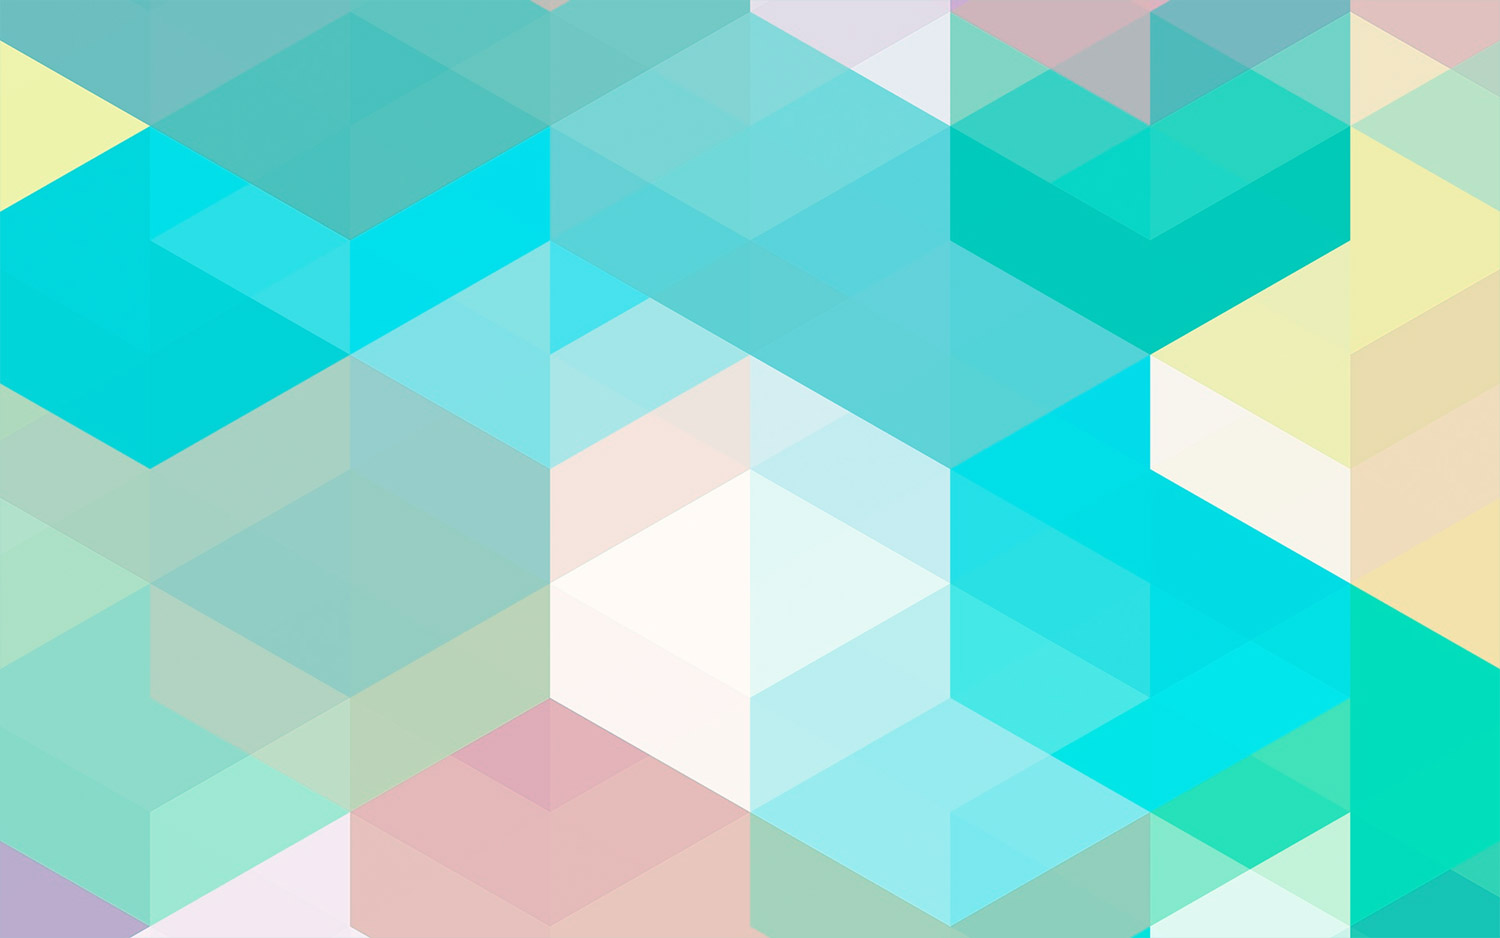
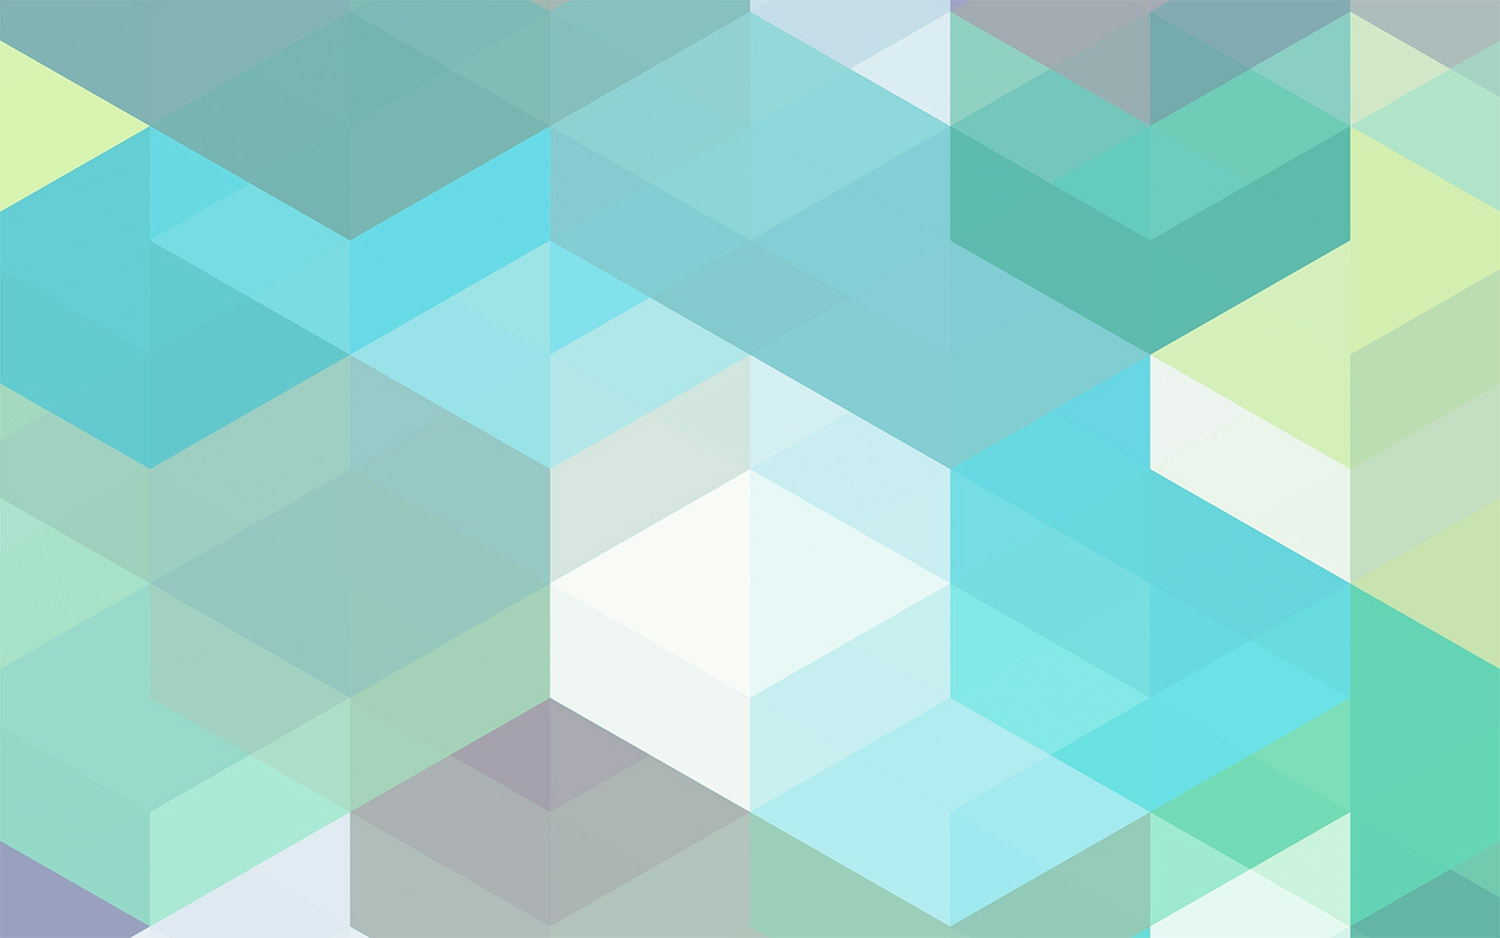
More design tweakery

diff --git a/assets/styles/components/_jumbotron.scss b/assets/styles/components/_jumbotron.scss
@@ -60,10 +60,27 @@
 
 
 // THEME SWITCH
-.theme4 .jumbotron-inner,
-.theme3 .jumbotron-inner  {
-	background: rgba(56,151,152,0.75);
+.theme1 .jumbotron-inner {
+	background: url(../images/bg-diag-white.png) fixed;
 }
+.theme3 .jumbotron-inner {
+	background: rgba(56,151,152,0.35);
+}
+.theme4 .jumbotron-inner  {
+	//background: rgba(56,151,152,0.9) url(../images/bg-diag-white.png) fixed;
+	&::before {
+	content: "";
+	position: absolute;
+	top: 0;
+	right: 0;
+	left: 0;
+	bottom: 0;
+	background: -webkit-linear-gradient(-45deg, #306ab2 0%, #00e1ed 70%, #00e1ed 70%);
+	opacity: 0.5;
+	}
+}
+
+
 
 
 

diff --git a/assets/styles/layouts/_header.scss b/assets/styles/layouts/_header.scss
@@ -8,6 +8,16 @@
 	justify-content: center;
 }
 
+.theme4 .navbar {
+	transition: background $transition-time ease-in-out;
+	transition-delay: $transition-time;
+	background: transparent;
+}
+
+.theme4.sps--blw .navbar {
+	background: $brand-primary;
+}
+
 .navbar-brand {
 	background: url(../images/logo.svg) no-repeat;
 	height: $navbar-height;

diff --git a/assets/styles/components/_cards.scss b/assets/styles/components/_cards.scss
@@ -99,7 +99,7 @@
 }
 
 .theme3 .card-img-top {
-	background: url(../images/bg-abstract.jpg);
+	background: url(../images/bg-abstract.jpg) center;
 	
 	&::after {
 		display: none;
